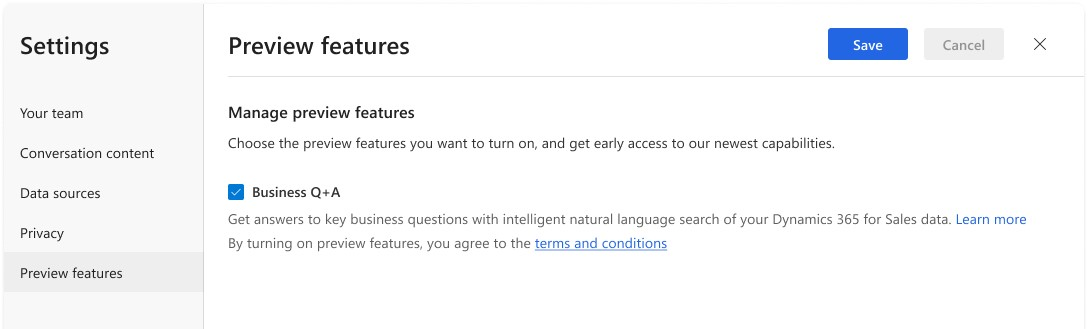
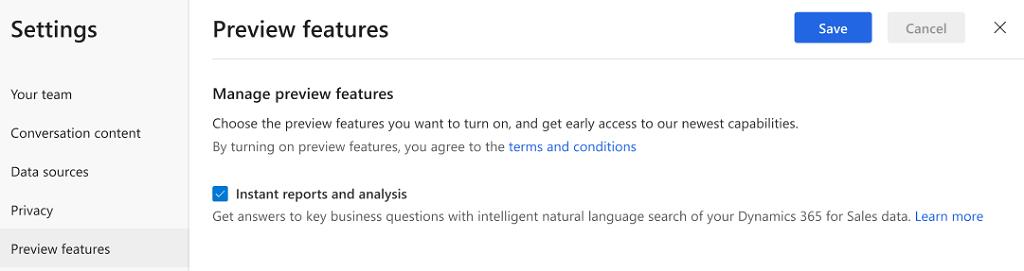
updated q&A

diff --git a/ai-docs/sales/enable-preview-features-sales-insights-app.md b/ai-docs/sales/enable-preview-features-sales-insights-app.md
@@ -44,11 +44,11 @@ As an administrator, you must enable the **Instant reports and analysis** featur
 
     ![Select preview feature](media/si-app-admin-select-preview-feature.png "Select preview feature")
 
-5.	Select **Business Q+A** and then select **Save**.
+5.	Select **Instant reports and analysis** and then select **Save**.
 
     ![Preview feature enabled](media/si-app-admin-preview-feature-enabled.png "Preview feature enabled")
 
-The Preview feature **Business Q+A** is enabled which uses natural language to process the questions and display answers.
+The Preview feature **Instant reports and analysis** is enabled which uses natural language to process the questions and display answers.
 
 ### See also
 
